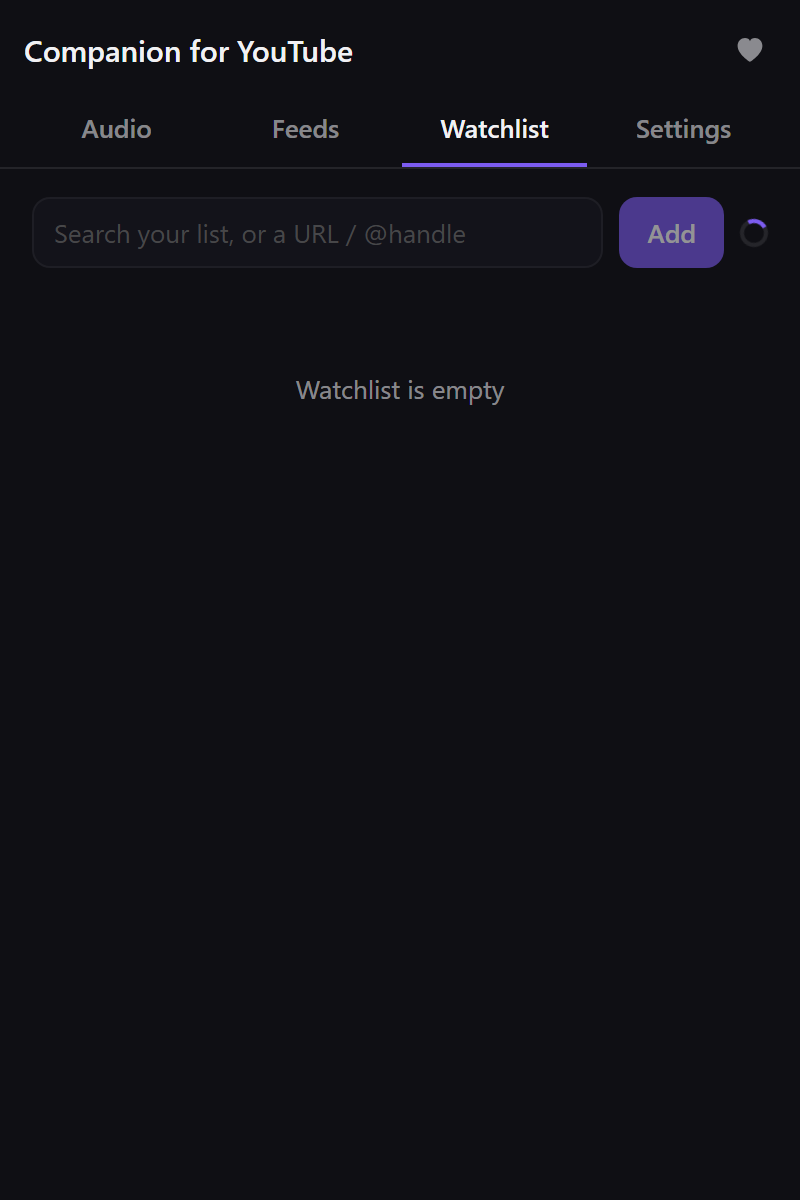
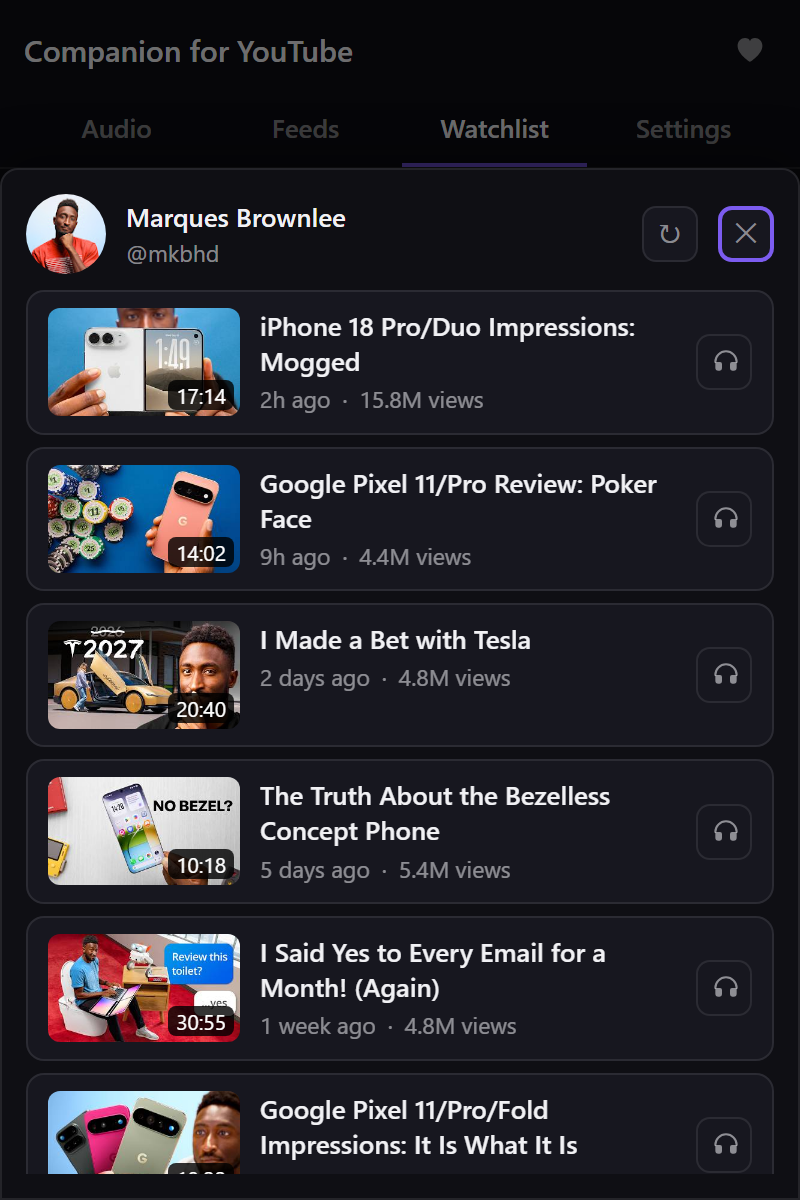
Wait for the Watchlist row before shooting the channel sheet
The shots stub clicked the first Watchlist row straight after switching
tabs, but the list renders a tick later. Some runs found no row and
captured an empty Watchlist, and one of those went out as the sheet
screenshot in docs/ and the store images. The stub now polls for the
row, and both images are re-rendered from a run that opened the sheet.

diff --git a/scripts/shots/stub.js b/scripts/shots/stub.js
@@ -226,8 +226,11 @@
     }
     if (name === 'sheet') {
       click('#tab-watchlist');
-      var opener = document.querySelector('#watchlist-list .channel-row__main');
-      if (opener) opener.click();
+      // The watchlist renders after the tab switch, not during the click, so
+      // clicking straight away sometimes found no row and shot an empty list.
+      whenPresent('#watchlist-list .channel-row__main', function (opener) {
+        if (opener) opener.click();
+      });
       return;
     }
     if (name === 'support') {
@@ -236,6 +239,18 @@
         || document.querySelector('#support-methods .support-method__qr-toggle');
       if (qr) qr.click();
     }
+  }
+
+  function whenPresent(sel, done) {
+    var start = Date.now();
+    (function tick() {
+      var el = document.querySelector(sel);
+      if (el || Date.now() - start >= 3000) {
+        done(el);
+        return;
+      }
+      setTimeout(tick, 50);
+    })();
   }
 
   function whenFeedReady(done) {
